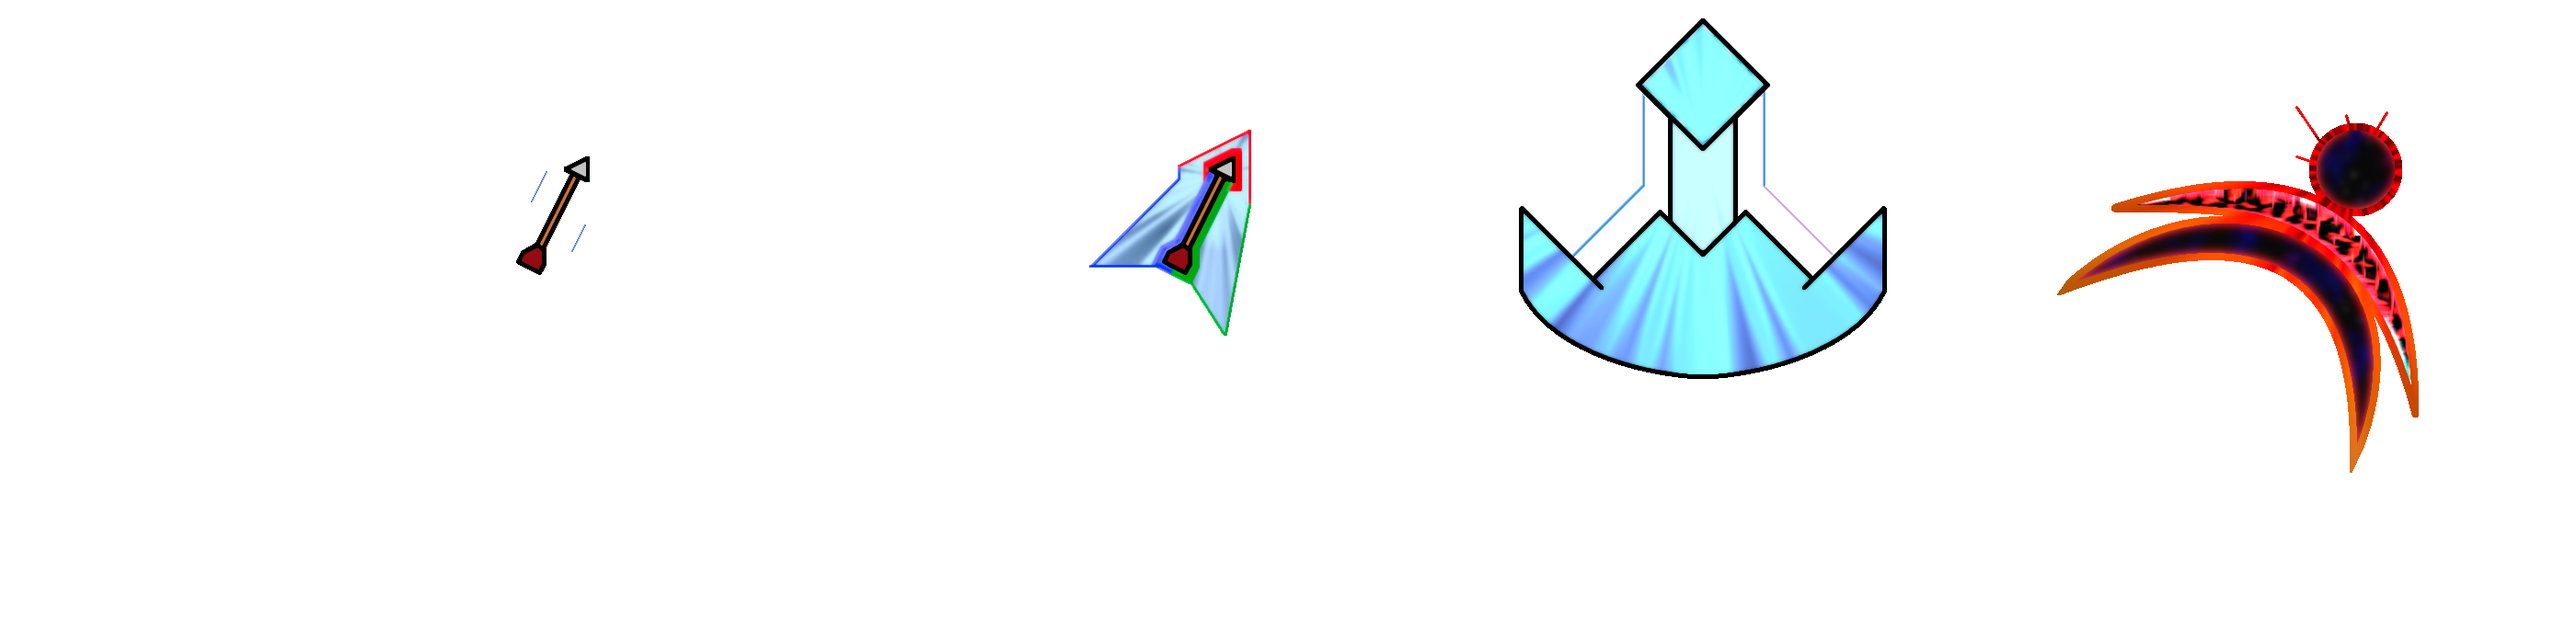
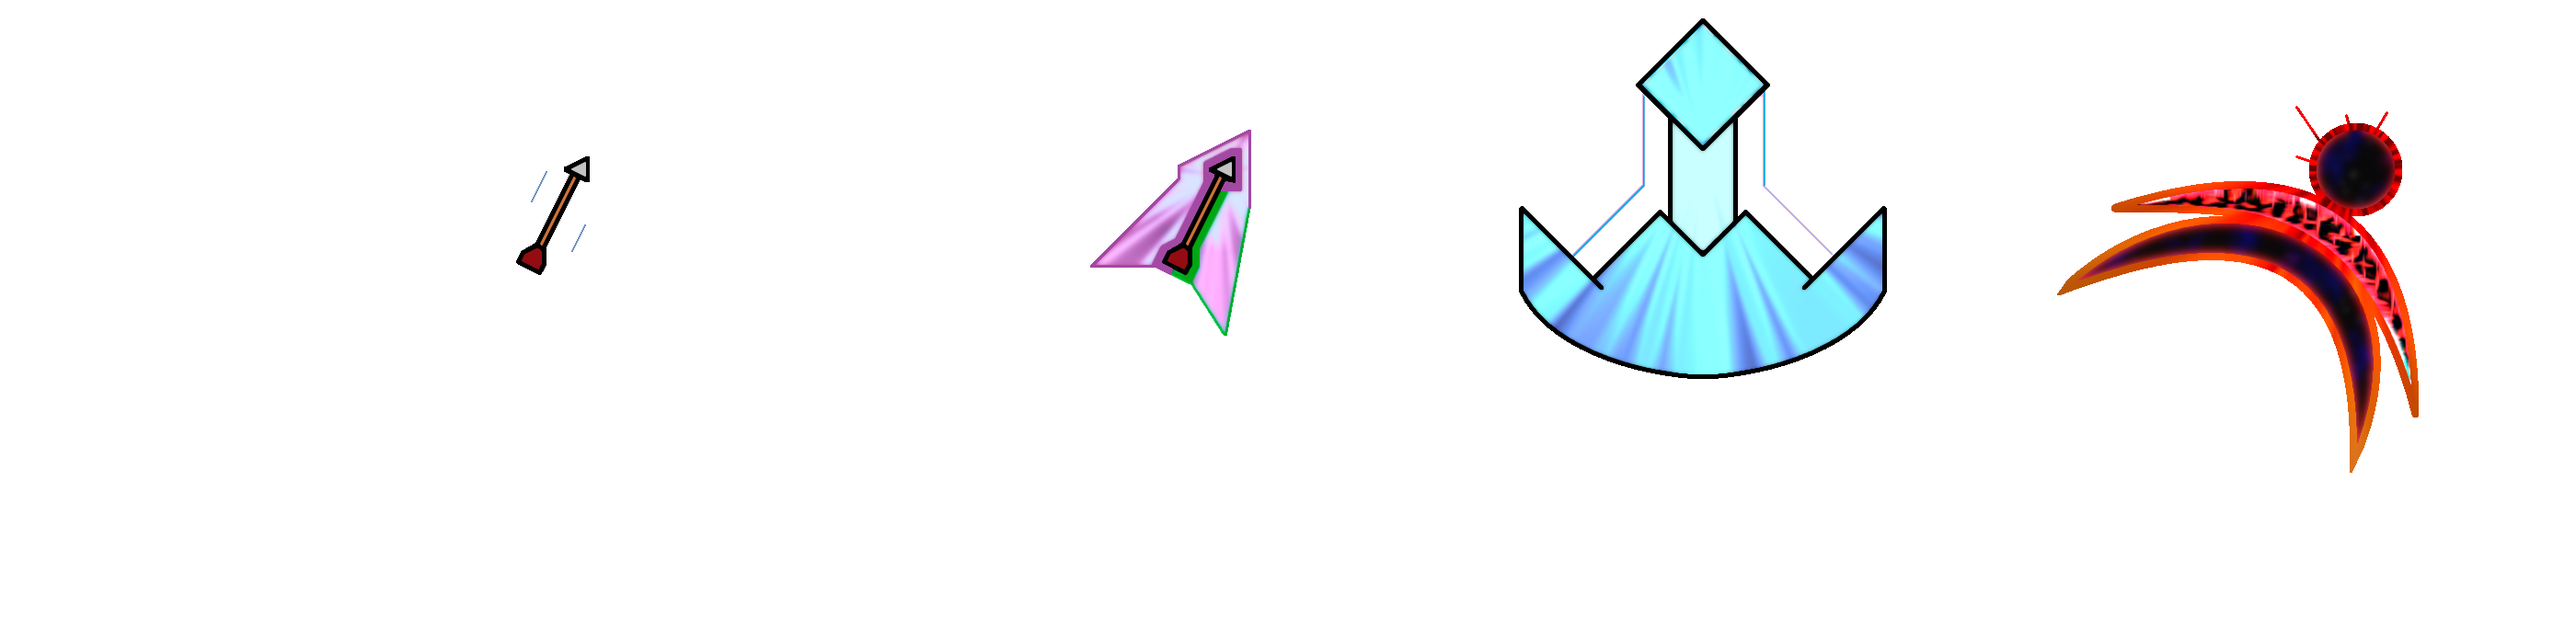
Poison Arrow.

Changed region(s): [[0.4039, 0.2106, 0.4971, 0.5115]]

diff --git a/main.py b/main.py
@@ -8600,7 +8600,8 @@ if __name__ == "__main__":
     upgrade_overlay = UiElement("upgrade overlay", 764, 380, graphic_dict["upgrade_overlay"])
     dealt_damage_overlay = UiElement("dealt damage overlay", 850, 225, graphic_dict["dealt_damage_img"])
     fire_damage_overlay = UiElement("fire damage overlay", 575, 160, graphic_dict["fire_damage_img"])
-    edge_health_overlay = UiElement("edge health overlay", 675, 160, graphic_dict["edge_health_img"])
+    edge_health_overlay = UiElement("edge health overlay", 775, 160, graphic_dict["edge_health_img"])
+    poison_arrow_dmg_overlay = UiElement("poison arrow dmg overlay", 675, 160, graphic_dict["poison_arrow_damage_img"])
     pet_damage_overlay = UiElement("pet damage overlay", 750, 250, graphic_dict["pet_damage_img"])
     mirror_damage_overlay = UiElement("mirror damage overlay", 800, 200, graphic_dict["dealt_damage_img"])
     received_damage_overlay = UiElement("received damage overlay", 125, 275, graphic_dict["received_damage_img"])
@@ -9398,6 +9399,7 @@ if __name__ == "__main__":
     card_drop_played = False
     cleared = False
     show_arrow = False
+    show_poison_arrow = False
     edge_active = False
     show_edge = False
     on_card_quest = False
@@ -15733,6 +15735,7 @@ if __name__ == "__main__":
                                 fire_active = False
                                 arrow_active = False
                                 show_arrow = False
+                                show_poison_arrow = False
                                 edge_active = False
                                 show_edge = False
                                 strike_active = False
@@ -16722,6 +16725,7 @@ if __name__ == "__main__":
                                         fire_active = False
                                         arrow_active = False
                                         show_arrow = False
+                                        show_poison_arrow = False
                                         edge_active = False
                                         show_edge = False
                                         strike_active = False
@@ -17106,6 +17110,7 @@ if __name__ == "__main__":
                                                     fire_active = False
                                                     arrow_active = False
                                                     show_arrow = False
+                                                    show_poison_arrow = False
                                                     edge_active = False
                                                     show_edge = False
                                                     strike_active = False
@@ -17299,6 +17304,7 @@ if __name__ == "__main__":
                                             fire_active = False
                                             arrow_active = False
                                             show_arrow = False
+                                            show_poison_arrow = False
                                             edge_active = False
                                             show_edge = False
                                             strike_active = False
@@ -17495,6 +17501,7 @@ if __name__ == "__main__":
                                                         fire_active = False
                                                         arrow_active = False
                                                         show_arrow = False
+                                                        show_poison_arrow = False
                                                         edge_active = False
                                                         show_edge = False
                                                         strike_active = False
@@ -17731,6 +17738,7 @@ if __name__ == "__main__":
                                                     fire_active = False
                                                     arrow_active = False
                                                     show_arrow = False
+                                                    show_poison_arrow = False
                                                     edge_active = False
                                                     show_edge = False
                                                     strike_active = False
@@ -17778,8 +17786,9 @@ if __name__ == "__main__":
                                         if arrow_learned:
                                             if not arrow_active:
                                                 pygame.mixer.find_channel(True).play(sfx_scout_arrow)
-                                                info_text_1 = "Arrow of Advantage is active."
+                                                info_text_1 = "Poison Arrow is active."
                                                 arrow_active = True
+                                                show_poison_arrow = True
                                                 if player.equipment["trinket 3"] != "":
                                                     player.energy -= 20
                                                 elif player.equipment["trinket 3"] == "":
@@ -17932,6 +17941,7 @@ if __name__ == "__main__":
                                                         fire_active = False
                                                         arrow_active = False
                                                         show_arrow = False
+                                                        show_poison_arrow = False
                                                         edge_active = False
                                                         show_edge = False
                                                         strike_active = False
@@ -17972,7 +17982,7 @@ if __name__ == "__main__":
                                                 else:
                                                     pygame.display.flip()
                                             else:
-                                                info_text_1 = "Arrow of Advantage is already active."
+                                                info_text_1 = "Poison Arrow is already active."
 
                                 else:
                                     info_text_1 = "Not enough energy to use this skill."
@@ -18239,9 +18249,7 @@ if __name__ == "__main__":
                                 text_enemy_level_rect = text_enemy_level_surf.get_rect()
                                 text_enemy_level_rect.center = (918, 688)
 
-                                if arrow_active:
-                                    type_advantage_overlay.update(580, 50, graphic_dict["any_type_overlay"])
-                                elif current_enemy_battling.type == "mage":
+                                if current_enemy_battling.type == "mage":
                                     type_advantage_overlay.update(580, 50, graphic_dict["mage_type_overlay"])
                                 elif current_enemy_battling.type == "fighter":
                                     type_advantage_overlay.update(580, 50, graphic_dict["fighter_type_overlay"])
@@ -18506,6 +18514,7 @@ if __name__ == "__main__":
                                         fire_active = False
                                         arrow_active = False
                                         show_arrow = False
+                                        show_poison_arrow = False
                                         edge_active = False
                                         show_edge = False
                                         strike_active = False
@@ -18568,7 +18577,7 @@ if __name__ == "__main__":
                                 if player.role == "scout":
                                     if show_arrow:
                                         screen.blit(arrow_battle_sprite.surf, arrow_battle_sprite.rect)
-                                    elif arrow_active:
+                                    elif show_poison_arrow:
                                         screen.blit(advantage_battle_sprite.surf, advantage_battle_sprite.rect)
 
                                 if burned:
@@ -18636,7 +18645,7 @@ if __name__ == "__main__":
                                 if player.role == "scout":
                                     if show_arrow:
                                         game_window.blit(arrow_battle_sprite.surf, arrow_battle_sprite.rect)
-                                    elif arrow_active:
+                                    elif show_poison_arrow:
                                         game_window.blit(advantage_battle_sprite.surf, advantage_battle_sprite.rect)
 
                                 if burned:
@@ -18730,22 +18739,20 @@ if __name__ == "__main__":
                                         screen.blit(dealt_damage_overlay.surf, dealt_damage_overlay.rect)
                                         if fire_active:
                                             screen.blit(fire_damage_overlay.surf, fire_damage_overlay.rect)
-                                        if player.role == "fighter":
-                                            try:
-                                                if combat_events["edge damage"]:
-                                                    screen.blit(edge_health_overlay.surf, edge_health_overlay.rect)
-                                            except KeyError:
-                                                pass
+                                        if edge_active:
+                                            screen.blit(edge_health_overlay.surf, edge_health_overlay.rect)
+                                        if arrow_active:
+                                            screen.blit(poison_arrow_dmg_overlay.surf, poison_arrow_dmg_overlay.rect)
                                     else:
                                         game_window.blit(dealt_damage_overlay.surf, dealt_damage_overlay.rect)
                                         if fire_active:
                                             game_window.blit(fire_damage_overlay.surf, fire_damage_overlay.rect)
-                                        if player.role == "fighter":
-                                            try:
-                                                if combat_events["edge damage"]:
-                                                    game_window.blit(edge_health_overlay.surf, edge_health_overlay.rect)
-                                            except KeyError:
-                                                pass
+                                        if edge_active:
+                                            game_window.blit(edge_health_overlay.surf, edge_health_overlay.rect)
+                                        if arrow_active:
+                                            game_window.blit(poison_arrow_dmg_overlay.surf,
+                                                             poison_arrow_dmg_overlay.rect)
+
                                     if kasper_unlocked or torok_unlocked or iriana_unlocked:
                                         for pet in player.pet:
                                             if pet.active:
@@ -18768,13 +18775,20 @@ if __name__ == "__main__":
                                             fire_dmg_rect.center = (578, 160)
                                         except KeyError:
                                             pass
-                                    if player.role == "fighter":
+                                    if edge_active:
                                         try:
-                                            if combat_events["edge damage"]:
-                                                edge_h_surf = level_up_font.render(str(combat_events["edge damage"]),
-                                                                                   True, "black", "white")
-                                                edge_h_rect = edge_h_surf.get_rect()
-                                                edge_h_rect.center = (675, 160)
+                                            edge_h_surf = level_up_font.render(str(combat_events["edge damage"]),
+                                                                               True, "black", "white")
+                                            edge_h_rect = edge_h_surf.get_rect()
+                                            edge_h_rect.center = (780, 160)
+                                        except KeyError:
+                                            pass
+                                    if arrow_active:
+                                        try:
+                                            arrow_h_surf = level_up_font.render(str(combat_events["arrow damage"]),
+                                                                                True, "black", "white")
+                                            arrow_h_rect = arrow_h_surf.get_rect()
+                                            arrow_h_rect.center = (680, 160)
                                         except KeyError:
                                             pass
 
@@ -18782,20 +18796,18 @@ if __name__ == "__main__":
                                         screen.blit(damage_done_surf, damage_done_rect)
                                         if fire_active:
                                             screen.blit(fire_dmg_surf, fire_dmg_rect)
-                                        try:
-                                            if combat_events["edge damage"]:
-                                                screen.blit(edge_h_surf, edge_h_rect)
-                                        except KeyError:
-                                            pass
+                                        if edge_active:
+                                            screen.blit(edge_h_surf, edge_h_rect)
+                                        if arrow_active:
+                                            screen.blit(arrow_h_surf, arrow_h_rect)
                                     else:
                                         game_window.blit(damage_done_surf, damage_done_rect)
                                         if fire_active:
                                             game_window.blit(fire_dmg_surf, fire_dmg_rect)
-                                        try:
-                                            if combat_events["edge damage"]:
-                                                game_window.blit(edge_h_surf, edge_h_rect)
-                                        except KeyError:
-                                            pass
+                                        if edge_active:
+                                            game_window.blit(edge_h_surf, edge_h_rect)
+                                        if arrow_active:
+                                            game_window.blit(arrow_h_surf, arrow_h_rect)
 
                                     damage_pet_surf = level_up_font.render(str(combat_events["pet damage"]),
                                                                            True, "black", "white")
@@ -18906,7 +18918,7 @@ if __name__ == "__main__":
                                 hard_strike = False
                                 show_edge = False
                                 show_arrow = False
-                                arrow_active = False
+                                show_poison_arrow = False
                                 if crushed:
                                     crush_shown = True
                     except TypeError:
@@ -25471,7 +25483,7 @@ if __name__ == "__main__":
                                     if (player.quest_status["sneaky snakes"]
                                             and not player.quest_complete["sneaky snakes"]):
                                         snake.update_image(snake.x_coordinate, snake.y_coordinate,
-                                                                  graphic_dict["snake_high_night"])
+                                                           graphic_dict["snake_high_night"])
                                     else:
                                         snake.update_image(snake.x_coordinate, snake.y_coordinate,
                                                            graphic_dict["snake_night"])
@@ -25502,10 +25514,10 @@ if __name__ == "__main__":
                                     if (player.quest_status["band hammer"]
                                             and not player.quest_complete["band hammer"]):
                                         bandile.update_image(bandile.x_coordinate, bandile.y_coordinate,
-                                                           graphic_dict["bandile_high_night"])
+                                                             graphic_dict["bandile_high_night"])
                                     else:
                                         bandile.update_image(bandile.x_coordinate, bandile.y_coordinate,
-                                                           graphic_dict["bandile_night"])
+                                                             graphic_dict["bandile_night"])
                             if player.current_zone == "ectrenos alcove":
                                 for osodark in ectrenos_alcove_enemies:
                                     osodark.update_image(osodark.x_coordinate, osodark.y_coordinate,
@@ -25514,10 +25526,10 @@ if __name__ == "__main__":
                                 for atmon in atmons:
                                     if npc_maydria.gift and not prism_received:
                                         atmon.update_image(atmon.x_coordinate, atmon.y_coordinate,
-                                                             graphic_dict["atmon_high_night"])
+                                                           graphic_dict["atmon_high_night"])
                                     else:
                                         atmon.update_image(atmon.x_coordinate, atmon.y_coordinate,
-                                                             graphic_dict["atmon_night"])
+                                                           graphic_dict["atmon_night"])
 
                         case 7:  # night
                             if day_timer_toc - day_timer > 50:
@@ -25611,6 +25623,7 @@ if __name__ == "__main__":
                         fire_active = False
                         arrow_active = False
                         show_arrow = False
+                        show_poison_arrow = False
                         edge_active = False
                         show_edge = False
                         strike_active = False
@@ -25684,6 +25697,7 @@ if __name__ == "__main__":
                                     fire_active = False
                                     arrow_active = False
                                     show_arrow = False
+                                    show_poison_arrow = False
                                     edge_active = False
                                     show_edge = False
                                     strike_active = False
@@ -25782,6 +25796,7 @@ if __name__ == "__main__":
                                 fire_active = False
                                 arrow_active = False
                                 show_arrow = False
+                                show_poison_arrow = False
                                 edge_active = False
                                 show_edge = False
                                 strike_active = False

diff --git a/combat_scenario.py b/combat_scenario.py
@@ -2212,9 +2212,9 @@ def attack_scenario(enemy_combating, combat_event, player, hard_strike_learned, 
                         if not apothis_gift:
                             combat_event_dictionary["fire damage"] = 1
                         else:
-                            combat_event_dictionary["fire damage"] = random.randint(4, 8)
+                            combat_event_dictionary["fire damage"] = random.randint(2, 6)
                     else:
-                        combat_event_dictionary["fire damage"] = random.randint(5, 10)
+                        combat_event_dictionary["fire damage"] = random.randint(4, 8)
                     damage_to_enemy += combat_event_dictionary["fire damage"]
 
                 # poison arrow poison damage add to total and return in dict
@@ -2223,9 +2223,9 @@ def attack_scenario(enemy_combating, combat_event, player, hard_strike_learned, 
                         if not apothis_gift:
                             combat_event_dictionary["arrow damage"] = 1
                         else:
-                            combat_event_dictionary["arrow damage"] = random.randint(4, 8)
+                            combat_event_dictionary["arrow damage"] = random.randint(2, 6)
                     else:
-                        combat_event_dictionary["arrow damage"] = random.randint(5, 10)
+                        combat_event_dictionary["arrow damage"] = random.randint(4, 8)
                     damage_to_enemy += combat_event_dictionary["arrow damage"]
 
                 # epsilons edge bleed damage add to total and return in dict
@@ -2234,9 +2234,9 @@ def attack_scenario(enemy_combating, combat_event, player, hard_strike_learned, 
                         if not apothis_gift:
                             combat_event_dictionary["edge damage"] = 1
                         else:
-                            combat_event_dictionary["edge damage"] = random.randint(4, 8)
+                            combat_event_dictionary["edge damage"] = random.randint(2, 6)
                     else:
-                        combat_event_dictionary["edge damage"] = random.randint(5, 10)
+                        combat_event_dictionary["edge damage"] = random.randint(4, 8)
                     damage_to_enemy += combat_event_dictionary["edge damage"]
 
                 enemy_combating.health = enemy_combating.health - damage_to_enemy

diff --git a/graphics.py b/graphics.py
@@ -4232,6 +4232,7 @@ def load_graphics():
     loaded_dict["burn_damage_img"] = damage_overlays_sheet[13]
     loaded_dict["poison_damage_img"] = damage_overlays_sheet[14]
     loaded_dict["bleed_damage_img"] = damage_overlays_sheet[15]
+    loaded_dict["poison_arrow_damage_img"] = damage_overlays_sheet[16]
     # worker 1 npc -----------------------------------------------------------------------------------------------------
     worker_1_url = resource_path('resources/art/sprites_worker_1.png')
     worker_1_sheet = sprite_sheet((50, 60), worker_1_url)
